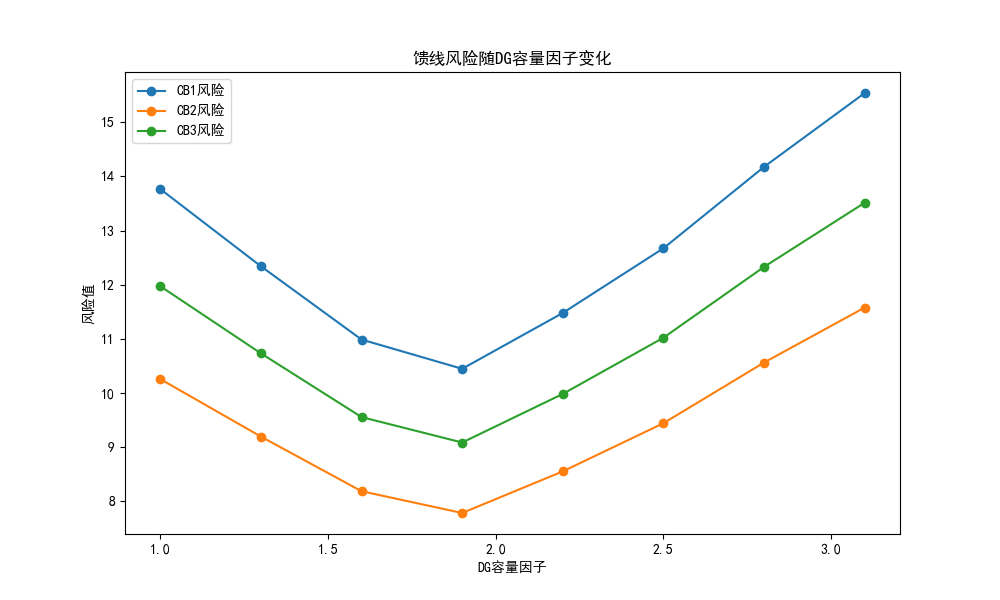
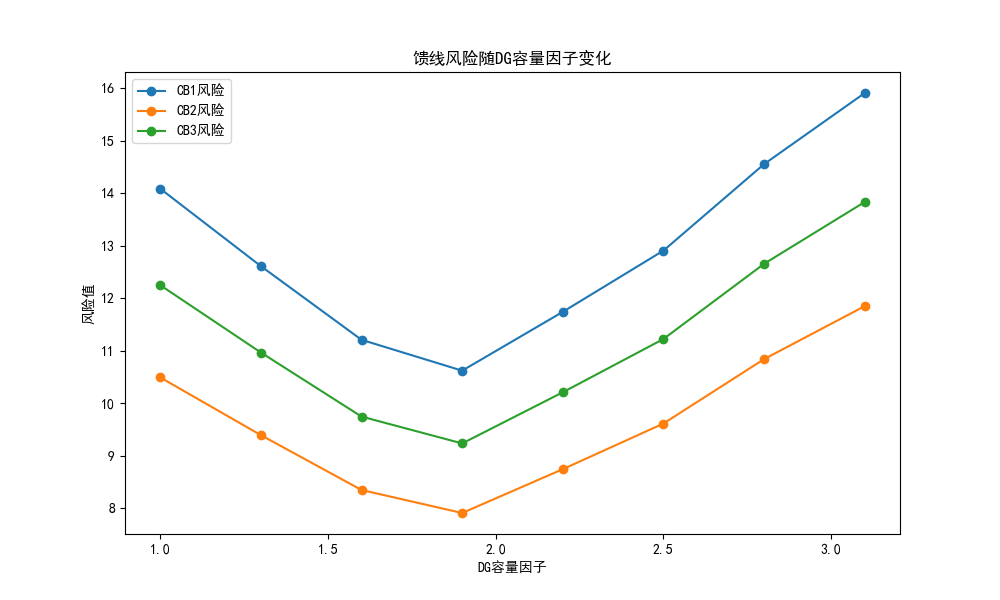
Update risk calculations in risk_model.py; adjust overload risk logic and refine risk metrics in system risk logs

diff --git a/Contests/2025-School/A/report.tex b/Contests/2025-School/A/report.tex
@@ -16,6 +16,8 @@
 \usepackage{amssymb}
 \usepackage{amsthm}
 \usepackage{minted}
+\usepackage{graphicx}
+\usepackage{booktabs}
 
 \renewcommand{\maketitlehookb}{
   \ifx\theauthor\empty
@@ -77,7 +79,8 @@
 \begin{enumerate}
   \item 假设分布式能源出力为固定值，且不随时间变化。\label{assumption:fixed_output}
   \item 假设配电网中所有节点的负荷均为已知值，且不随时间变化。\label{assumption:fixed_load}
-  \item 假设配电网的拓扑结构在分析期间保持不变，且联络开关变化状态离散。\label{assumption:topology_fixed}
+  \item 假设配电网的拓扑结构在分析期间保持不变，且电压恒定。\label{assumption:topology_fixed}
+  \item 假设配电网中联络开关的容量足够大，能够承载所有可能的功率转移。\label{assumption:large_capacity}
   \item 假设配电系统故障发生独立，且故障率固定。\label{assumption:independent_failure}
 \end{enumerate}
 
@@ -93,11 +96,11 @@
 分布式能源的出力波动与联络开关的功率转移特性是影响风险评估的关键因素。
 由于题目中指出，同一时刻同一类型只发生一个故障，因此可以独立分析电网中的各个节点，分别分析对应的风险。
 首先，针对失负荷风险，需要分析故障单元的故障率，结合网络拓扑和联络开关状态计算失负荷概率和风险期望。
-% 此外，考虑到不同用户类型的危害程度差异，还需要引入权重因子，量化危害程度。
+此外，考虑到不同用户类型的危害程度差异，还需要引入权重因子，量化危害程度。
 其次，针对过负荷风险，需要分析电路中电流的分布情况，结合联络开关的功率转移特性，判断是否超过额定载流量的 10\%。
 最后，综合考虑失负荷与过负荷风险，建立综合风险评估模型。
 
-技术路线上，我们选择使用 Python 作为主要工具，利用 pandas 和 numpy 分析负荷和出力数据，结合 networkx 库进行图论分析。
+技术路线上，我们选择使用 Python 作为主要工具，利用 pandas 和 numpy 分析负荷和出力数据，结合 networkx 库进行图论分析， matplotlib 库进行可视化。
 潜在挑战在于对于大规模节点计算的准确性，以及联络开关状态变化对风险评估的影响。
 
 \subsubsection{问题 1 建模}\label{subsubsec:problem1_model}
@@ -113,17 +116,203 @@
 因此，我们选择枚举所有可能的故障单元，结合网络拓扑和联络开关转移功率，计算故障后的失负荷损失。
 具体而言，我们可以针对故障单元的类型来讨论对应的风险评估。
 
-当故障单元为负载时，
+当故障单元为负载时，我们认为失负荷只是因为变电站到负荷的线路故障导致，因此负载失负荷后可以从同网络的其他 dg 节点接收。
+同时特殊考虑 dg 节点，认为它的失负荷损失为其出力功率。
+权重因子的设置根据不同用户类型的敏感度进行调整，我们使用的具体数值如表 \ref{tab:weight_factor} 所示。
+\begin{table}[h]
+  \centering
+  \begin{tabular}{|c|c|}
+    \hline
+    用户类型 & 权重因子 \\
+    \hline
+    工业用户 & 1.0 \\
+    政府机构 & 0.8 \\
+    商业用户 & 0.5 \\
+    居民 & 0.2 \\
+    \hline
+  \end{tabular}
+  \caption{不同用户类型的权重因子}
+  \label{tab:weight_factor}
+\end{table}
+% TODO: 参考文献
+形式化地说，假设故障单元为 $i$ ，其对应的负载功率或出力为 $P_i$ ，同网络的剩余容量为 $P_{\text{remain}}$ ，权重因子为 $w_i$ ，则失负荷损失为：
+\begin{equation}\label{eq:loss_node}
+  L_{\text{node},i} =
+  \begin{cases}
+    (P_i - P_{\text{remain}}) \cdot w_i & \text{if } i \text{ is a load} \\
+    P_i^{dg} & \text{if } i \text{ is a dg node}
+  \end{cases}
+\end{equation}
+
+当故障单元为线路时，需要考虑其影响到的节点以及联络开关的状态。
+首先，我们将每条馈线抽象为一棵以变电站为根节点的树，树的每个节点都是一个负载。
+那么，线路断开意味着这棵树被分为两棵树，其中一棵树的根节点为变电站，另一棵树的根节点为故障单元。
+这种情况下，考虑联络开关的影响，若被影响的子树可以通过联络开关转移功率，由于前述假设 \ref{assumption:large_capacity} ，则可以假定相连馈线的所有多余功率都可以被转移到故障子树。
+另外，还要考虑故障子树中的 dg 节点的出力。
+为了简化分析，此时我们计算被影响子树的平均权重，以此作为这棵子树的权重，乘以其失负荷的功率作为此时的损失。
+形式化地说，假设故障边的编号为 $i$ ，故障子树的节点集合为 $\mathcal{N}$ ，对应的负载功率的和为 $P_{\mathcal{N}}$ ，
+dg 节点的出力功率的和为 $P_{\mathcal{N}}^{dg}$ ，从其他馈线转移的功率为 $P_{\text{transfer}}$ ，则失负荷损失为：
+\begin{equation}\label{eq:loss_line}
+  L_{\text{line},i} = \max\left(
+    0,
+    \frac{\sum_{k\in\mathcal{N}}w_k}{|\mathcal{N}|} \cdot
+    (P_{\mathcal{N}} - P_{\text{transfer}} - P_{\mathcal{N}}^{dg})
+  \right)
+\end{equation}
+
+当故障单元为开关时，为了简化处理，我们认为它不会影响到任何节点的功率转移，即：
+\begin{equation}\label{eq:loss_switch}
+  \forall i \in \mathcal{S},\quad L_{\text{switch},i} = 0
+\end{equation}
+
+综上所述，我们可以将失负荷风险 $P_{\text{LL}} \cdot C_{\text{LL}} $ 表示为：
+\begin{equation}\label{eq:loss_total}
+  P_{\text{LL}} \cdot C_{\text{LL}}
+  = \sum_{i\in\mathcal{N}} R_{i} \cdot L_{\text{node},i}
+  + \sum_{j\in\mathcal{L}} R_{j} \cdot L_{\text{line},j}
+  + \sum_{k\in\mathcal{S}} R_{k} \cdot L_{\text{switch},k}
+\end{equation}
+其中 $\mathcal{N}$、$\mathcal{L}$ 和 $\mathcal{S}$ 分别表示故障单元为负载、线路和开关的集合。
+
+对于过负荷风险，我们需要计算每条馈线的电流情况，判断是否超过额定载流量的 10\%。
+这里我们假定馈线的电流为三相交流电，那么有功率与电压的关系为：
+\begin{equation}\label{eq:current_formula}
+  I = \frac{P}{\sqrt{3} \cdot U}
+\end{equation}
+其中 $I$ 为电流，$P$ 为功率，$U$ 为电压。
+
+根据假设 \ref{assumption:fixed_output} 和 \ref{assumption:fixed_load}，我们可以认为负载功率和出力功率是固定的。
+又由假设 \ref{assumption:topology_fixed}，所以可以认为馈线电流与馈线总净功率成线性关系，因此只需计算馈线的总净功率。
+
+首先计算馈线 $i$ 的总净功率 $P_{\text{net},i}$：
+\begin{equation}\label{eq:net_power}
+  P_{\text{net},i} = \sum_{j\in\mathcal{N}_i} P_j - \sum_{k\in\mathcal{DG}_i} P_k^{\text{dg}}
+\end{equation}
+其中 $\mathcal{N}_i$ 和 $\mathcal{DG}_i$ 分别表示馈线 $i$ 上的负载节点和分布式发电节点集合。
+当 $P_{\text{net},i} > 0$ 时，表示馈线 $i$ 上的负载大于分布式发电节点的出力，此时我们需要计算电流 $I_i$：
+\begin{equation}\label{eq:current}
+  I_i = \frac{P_{\text{net},i}}{\sqrt{3} \cdot U}
+\end{equation}
+否则，则考虑联络开关的功率转移。
+假设联络开关能够转移的最大功率为 $P_{\text{transfer},i}$，则此时的电流 $I_i$ 为：
+\begin{equation}\label{eq:current_transfer}
+  I_i = \frac{|P_{\text{net},i}| - P_{\text{transfer},i}}{\sqrt{3} \cdot U}
+\end{equation}
+
+然而，由于实际上的负载和出力功率是有波动的，为了简化分析，我们认为实际上的电流成正态分布，期望值为 $I_i$，标准差为 $\sigma_i = 0.1 \cdot I_i$。
+同时，由于电流本身即使没有过载也会导致线路老化等损失，因此我们给出一个分段线性的损失函数如下：
+\begin{equation}\label{eq:loss_current}
+  L_{\text{current},i} (I) =
+  \begin{cases}
+    0.2 \sqrt{3} U \frac{I}{I_{\text{rated} \cdot 1.1}} \cdot \bar{w_i} & \text{if } I_i < 1.1 \cdot I_{\text{rated}} \\
+    2 \sqrt{3} U (I_i - 1.1 \cdot I_{\text{rated}} + 0.1) \cdot \bar{w_i} & \text{if } I_i \geq 1.1 \cdot I_{\text{rated}}
+  \end{cases}
+\end{equation}
+其中 $I_{\text{rated}}$ 为馈线的额定电流，$\bar{w_i}$ 为馈线 $i$ 的平均权重。
+从而计算期望损失：
+\begin{equation}\label{eq:loss_current_expectation}
+  P_{\text{OL}} \cdot C_{\text{OL}}
+  = \sum_i E[L_{\text{current},i}]
+  = \sum_i \int_{-\infty}^{+\infty} L_{\text{current},i}(I) \cdot N(I_i,\ 0.1 I_i) dI
+\end{equation}
+其中 $N(I_i,\ 0.1 I_i)$ 为正态分布函数。
+
+综上所述，可以根据公式 \ref{eq:risk_formula}，\ref{eq:loss_total} 和 \ref{eq:loss_current_expectation} 计算系统的风险值 $R_{\text{sys}}$。
 
 \subsubsection{问题 1 求解}\label{subsubsec:problem1_solve}
+
+基于所建立的数学模型，我们使用 Python 对题目给出的 62 节点有源配电网系统进行建模与求解。
+我们首先使用 networkx 库构建配电网的拓扑结构，利用 pandas 和 numpy 库处理负荷和出力数据。
+然后，针对每个节点的故障单元，计算其失负荷和过负荷风险。
+最后，综合所有节点的风险值，得到系统的总风险值 $R_{\text{sys}}$。
+
+首先有网络拓扑图如下：
+
+\begin{figure}[htbp]
+  \centering
+  \includegraphics[width=0.8\textwidth]{problem1/topology_graph.png}
+  \caption{62节点有源配电网拓扑结构}
+  \label{fig:network_topology}
+\end{figure}
+
+接下来通过 Python 代码实现上述模型的求解过程，计算出系统的失负荷和过负荷风险。
+分析结果表明，系统风险主要来自于失负荷风险，占总风险的 95.51\%，而过负荷风险仅占 4.49\%。
+总的风险值为 36.82 ，总风险相对较高。
 
 \subsection{问题 2 建模与求解}\label{subsec:problem2}
 
 \subsubsection{问题 2 求解思路}\label{subsubsec:problem2_idea}
 
+问题 2 要求分析分布式能源接入对系统风险的动态影响，揭示风险演变的规律。
+核心目标是通过仿真分析分布式能源接入容量、位置等因素对系统风险的影响，量化风险演变的趋势。
+我们可以通过改变分布式能源的接入容量，观察系统风险的变化。
+技术路线依然使用 Python 进行仿真分析，结合 matplotlib 库进行可视化。
+
 \subsubsection{问题 2 建模}\label{subsubsec:problem2_model}
 
+为了衡量每个馈线承担的风险，我们为每个馈线定义风险占比。
+假设整张图的边集和点集是 $\mathcal{E}$ 和 $\mathcal{N}$ ，馈线 $i$ 的边集与点集分别为 $\mathcal{E}_i$ 和 $\mathcal{N}_i$，则馈线 $i$ 的风险占比 $R_{\text{ratio},i}$ 定义为：
+\begin{equation}\label{eq:ratio}
+  R_{\text{ratio},i}
+  = \frac
+  {\sum_{j\in\mathcal{N}_i} R_j + \sum_{k\in\mathcal{E}_i} R_k}
+  {\sum_{j\in\mathcal{N}} R_j + \sum_{k\in\mathcal{E}} R_k}
+\end{equation}
+从而可以计算出每个馈线的风险占比。
+
+然后，我们可以通过改变分布式能源的接入容量，观察系统风险的变化。
+
 \subsubsection{问题 2 求解}\label{subsubsec:problem2_solve}
+
+基于所建立的数学模型，我们使用 Python 对题目给出的 62 节点有源配电网系统进行建模与求解。
+
+首先使用 numpy 库生成分布式能源的接入容量数据，假设分布式能源的接入容量系数为 $I$ 到 $3I$ ，步长为 $0.3I$ ，其中 $I$ 为 dg 节点的出力功率。
+然后，针对每个节点的故障单元，计算其失负荷和过负荷风险。
+计算结果表 \ref{tab:risk_evolution} 所示。
+
+\begin{table}[htbp]
+  \centering
+  \begin{tabular}{ccccc}
+    \toprule
+    容量因子 & 总DG容量(kW) & 失负荷风险 & 过负荷风险 & 系统总风险 \\
+    \midrule
+    1.00 & 2400.00 & 35.17 & 1.65 & 36.82 \\
+    1.30 & 3120.00 & 31.57 & 1.41 & 32.97 \\
+    1.60 & 3840.00 & 28.15 & 1.16 & 29.31 \\
+    1.90 & 4560.00 & 26.86 & 0.91 & 27.77 \\
+    2.20 & 5280.00 & 29.33 & 1.37 & 30.70 \\
+    2.50 & 6000.00 & 32.53 & 1.22 & 33.75 \\
+    2.80 & 6720.00 & 36.09 & 1.96 & 38.05 \\
+    3.10 & 7440.00 & 39.68 & 1.90 & 41.58 \\
+    \bottomrule
+  \end{tabular}
+  \caption{分布式能源容量对系统风险的影响}
+  \label{tab:risk_evolution}
+\end{table}
+
+同时，我们使用 matplotlib 库绘制系统风险随分布式能源接入容量变化的曲线图，如图 \ref{fig:risk_evolution} 所示。
+
+\begin{figure}[htbp]
+  \centering
+  \includegraphics[width=0.8\textwidth]{problem2/dg_capacity_trending.png}
+  \caption{分布式能源接入容量对系统风险的影响}
+  \label{fig:risk_evolution}
+\end{figure}
+
+从图中可以看出，系统风险随着分布式能源接入容量的增加而呈现出先下降后上升的趋势。
+在接入容量较小时，系统风险随着接入容量的增加而下降，说明分布式能源的接入能够有效降低系统风险。
+然而，当接入容量达到一定程度后，系统风险又开始上升，这可能是由于 dg 节点本身的出力波动性和不确定性导致的。
+
+同时，还有分馈线的风险占比随分布式能源接入容量变化的曲线图，如图 \ref{fig:line_risk_evolution} 所示。
+
+\begin{figure}[htbp]
+  \centering
+  \includegraphics[width=0.8\textwidth]{problem2/dg_capacity_trending_feeder.png}
+  \caption{馈线风险占比随分布式能源接入容量变化}
+  \label{fig:line_risk_evolution}
+\end{figure}
+
+经过以上分析，可以得出：当容量因子为 1.9 时，系统的风险最低，降低到了约 27.77。
 
 \section{模型分析检验}\label{sec:analysis_check}
 

diff --git a/Contests/2025-School/A/risk_model.py b/Contests/2025-School/A/risk_model.py
@@ -339,7 +339,7 @@ class RiskModel:
                 )
             else:
                 return (
-                    0.1
+                    0.2
                     * np.sqrt(3)
                     * self.voltage
                     * (x / (self.feeder_current_limit * 1.1))
@@ -351,24 +351,6 @@ class RiskModel:
             0,
             np.inf,
         )[0]
-
-        # 若电流超过馈线电流限制，则计算过载风险
-        # if current > self.feeder_current_limit * 1.1:
-        #     excess_current = current - self.feeder_current_limit * 1.1
-        #     overload_ratio = excess_current / (self.feeder_current_limit * 1.1)
-        #     # 这里简化为线性映射
-        #     overload_risk = min(1.0, overload_ratio * 2)
-        #     overload_consequence = (
-        #         excess_current
-        #         * self.feeder_capacity
-        #         / (self.feeder_current_limit * 1.1)
-        #     )
-        #     total_risk += overload_risk * overload_consequence
-        # else:
-        #     # 考虑潜在风险
-        #     load_ratio = current / self.feeder_current_limit
-        #     potential_risk = 0.1 * (1 + load_ratio)
-        #     total_risk += potential_risk
 
         return total_risk
 
